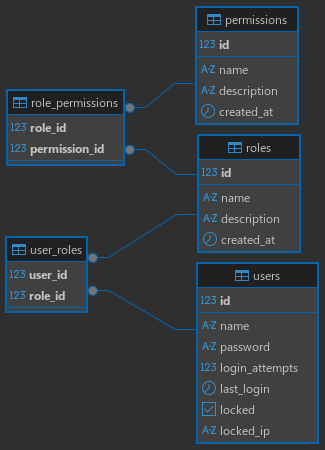
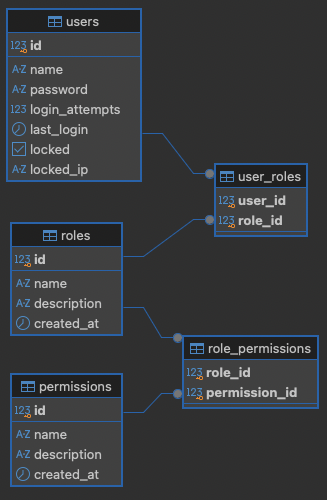
Spring JBDC and Spring JPA refactor

diff --git a/src/main/java/com/lavacro/finances/domain/auth/permission/PermissionService.java b/src/main/java/com/lavacro/finances/domain/auth/permission/PermissionService.java
@@ -5,7 +5,8 @@ import org.intellij.lang.annotations.Language;
 import org.springframework.jdbc.core.simple.JdbcClient;
 import org.springframework.stereotype.Service;
 
-import java.util.List;
+import java.util.HashSet;
+import java.util.Set;
 
 @Service
 @RequiredArgsConstructor
@@ -14,15 +15,64 @@ public class PermissionService {
 
 	@Language("SQL")
 	private static final String GET_ALL_PERMISSIONS = """
-		SELECT p.name AS permission, r.name AS role, u.name AS user_name
-		FROM rbac.permissions p
-		JOIN rbac.role_permissions rp ON p.id = rp.permission_id
-		JOIN rbac.roles r ON rp.role_id = r.id
-		JOIN rbac.user_roles ur ON r.id = ur.role_id
-		JOIN rbac.users u ON ur.user_id = u.id
+		SELECT u.id AS user_id, u.name AS user_name, u.password, u.login_attempts,
+			u.last_login, u.locked, u.locked_ip,
+			r.id AS role_id, r.name AS role_name, p.id AS permission_id, p.name AS permission_name
+		FROM rbac.users u
+		JOIN rbac.user_roles ur ON u.id = ur.user_id
+		JOIN rbac.roles r ON ur.role_id = r.id
+		JOIN rbac.role_permissions rp ON r.id = rp.role_id
+		JOIN rbac.permissions p ON rp.permission_id = p.id
+		WHERE u.name = ?
+		ORDER BY role_name
 	""";
 
-	public List<PermissionDTO> getAllPermissions() {
-		return jdbcClient.sql(GET_ALL_PERMISSIONS).query(PermissionDTO.class).list();
+	public UserDTO getUserPermissions(String user) {
+		var rows = jdbcClient.sql(GET_ALL_PERMISSIONS).param(user).query(UserPermissionsDTO.class).list();
+		if (rows.isEmpty()) {
+//			return new UserDTO(null, user, null, null, null, null, null, new HashSet<>());
+			return null;
+		}
+
+		Set<PermissionDTO> permissions = new HashSet<>();
+		Set<RoleDTO> roles = new HashSet<>();
+		boolean first = true;
+
+		UserPermissionsDTO model = null;
+		UserPermissionsDTO lastRow = null;
+
+		String roleName = null;
+
+		for (var row : rows) {
+			PermissionDTO permission = new PermissionDTO(row.permissionId(), row.permissionName());
+			permissions.add(permission);
+
+			if(first) {
+				first = false;
+				model = row;
+			}
+
+			if(roleName == null) {
+				roleName = row.roleName();
+			} else if (!roleName.equals(row.roleName())) {
+				roles.add(new RoleDTO(row.roleId(), row.roleName(), permissions));
+				permissions = new HashSet<>();
+				roleName = row.roleName();
+			}
+			lastRow = row;
+		}
+
+		roles.add(new RoleDTO(lastRow.roleId(), lastRow.roleName(), permissions));
+
+		return new UserDTO(
+			model.userId(),
+			model.userName(),
+			model.password(),
+			model.loginAttempts(),
+			model.lastLogin(),
+			model.locked(),
+			model.lockedIp(),
+			roles
+		);
 	}
 }

diff --git a/src/main/java/com/lavacro/finances/domain/auth/service/CustomUserDetailsService.java b/src/main/java/com/lavacro/finances/domain/auth/service/CustomUserDetailsService.java
@@ -1,0 +1,56 @@
+package com.lavacro.finances.domain.auth.service;
+
+import com.lavacro.finances.domain.auth.permission.*;
+import com.lavacro.finances.domain.auth.repository.RbacUserRepository;
+import lombok.RequiredArgsConstructor;
+import org.springframework.security.core.GrantedAuthority;
+import org.springframework.security.core.authority.SimpleGrantedAuthority;
+import org.springframework.security.core.userdetails.User;
+import org.springframework.security.core.userdetails.UserDetails;
+import org.springframework.security.core.userdetails.UserDetailsService;
+import org.springframework.security.core.userdetails.UsernameNotFoundException;
+import org.springframework.stereotype.Service;
+import org.springframework.transaction.annotation.Transactional;
+
+import java.util.Collection;
+import java.util.HashSet;
+import java.util.Set;
+
+@Service
+@RequiredArgsConstructor
+public class CustomUserDetailsService implements UserDetailsService {
+
+    private final RbacUserRepository userRepository;
+	private final PermissionService permissionService;
+
+    @Override
+    @Transactional(readOnly = true)
+    public UserDetails loadUserByUsername(String username) throws UsernameNotFoundException {
+		UserDTO userDTO = permissionService.getUserPermissions(username);
+
+		if(userDTO.locked() != null && userDTO.locked()) {
+			throw new UsernameNotFoundException("User is locked: " + username);
+		}
+
+        return User.builder()
+                .username(userDTO.name())
+                .password(userDTO.password())
+                .authorities(getAuthorities(userDTO))
+                .accountLocked(false)
+                .build();
+    }
+
+    private Collection<? extends GrantedAuthority> getAuthorities(UserDTO user) {
+        Set<GrantedAuthority> authorities = new HashSet<>();
+
+        for (RoleDTO userRole : user.roles()) {
+            authorities.add(new SimpleGrantedAuthority("ROLE_" + userRole.roleName()));
+
+            for (PermissionDTO permission : userRole.permissions()) {
+                authorities.add(new SimpleGrantedAuthority("PERMISSION_" + permission.permissionName()));
+            }
+        }
+
+        return authorities;
+    }
+}

diff --git a/src/main/java/com/lavacro/finances/domain/auth/permission/UserPermissionsDTO.java b/src/main/java/com/lavacro/finances/domain/auth/permission/UserPermissionsDTO.java
@@ -1,0 +1,29 @@
+package com.lavacro.finances.domain.auth.permission;
+
+import org.springframework.data.relational.core.mapping.Column;
+
+import java.time.LocalDateTime;
+
+public record UserPermissionsDTO(
+	@Column("user_id")
+	Integer userId,
+	@Column("user_name")
+	String userName,
+	String password,
+	@Column("login_attempts")
+	Integer loginAttempts,
+	@Column("last_login")
+	LocalDateTime lastLogin,
+	Boolean locked,
+	@Column("locked_ip")
+	String lockedIp,
+	@Column("role_id")
+	Integer roleId,
+	@Column("role_name")
+	String roleName,
+	@Column("permission_id")
+	Integer permissionId,
+	@Column("permission_name")
+	String permissionName
+) {
+}

diff --git a/src/main/java/com/lavacro/finances/domain/auth/permission/UserDTO.java b/src/main/java/com/lavacro/finances/domain/auth/permission/UserDTO.java
@@ -1,0 +1,18 @@
+package com.lavacro.finances.domain.auth.permission;
+
+import com.lavacro.finances.domain.auth.entity.UserRoleEntity;
+
+import java.time.LocalDateTime;
+import java.util.Set;
+
+public record UserDTO(
+	Integer id,
+	String name,
+	String password,
+	Integer loginAttempts,
+	LocalDateTime lastLogin,
+	Boolean locked,
+	String lockedIp,
+	Set<RoleDTO> roles
+) {
+}

diff --git a/src/main/java/com/lavacro/finances/domain/auth/permission/PermissionDTO.java b/src/main/java/com/lavacro/finances/domain/auth/permission/PermissionDTO.java
@@ -1,12 +1,7 @@
 package com.lavacro.finances.domain.auth.permission;
 
-import org.springframework.data.relational.core.mapping.Column;
-
 public record PermissionDTO(
-	@Column(value = "user_name")
-	String userName,
-	@Column(value = "role_name")
-	String roleName,
-	String permission
+	Integer id,
+	String permissionName
 ) {
 }

diff --git a/src/main/java/com/lavacro/finances/domain/auth/config/SecurityConfig.java b/src/main/java/com/lavacro/finances/domain/auth/config/SecurityConfig.java
@@ -1,6 +1,6 @@
 package com.lavacro.finances.domain.auth.config;
 
-import com.lavacro.finances.security.CustomUserDetailsService;
+import com.lavacro.finances.domain.auth.service.CustomUserDetailsService;
 import jakarta.servlet.http.HttpServletResponse;
 import lombok.RequiredArgsConstructor;
 import lombok.extern.slf4j.Slf4j;

diff --git a/src/main/java/com/lavacro/finances/domain/auth/permission/RoleDTO.java b/src/main/java/com/lavacro/finances/domain/auth/permission/RoleDTO.java
@@ -1,0 +1,10 @@
+package com.lavacro.finances.domain.auth.permission;
+
+import java.util.Set;
+
+public record RoleDTO(
+	Integer id,
+	String roleName,
+	Set<PermissionDTO> permissions
+) {
+}

diff --git a/README.md b/README.md
@@ -119,8 +119,10 @@ Some table and field name refactoring has already been done. Future releases wil
 
 ### RBAC Schema
 
-![rbac](images/rbac_schema.png)
+There are 3 tables of interest: users, roles, and permissions.
+Mapping tables establish the relationships between them:
 
+![rbac](images/rbac_schema.png)
 
 ---
 #### Build instructions
@@ -128,7 +130,7 @@ Some table and field name refactoring has already been done. Future releases wil
 The standard gradle commands are used to build the app:
 
 ```shell
-gradle clean build
+./gradlew clean build
 ```
 
 You can also use the `gradlew` wrapper.
